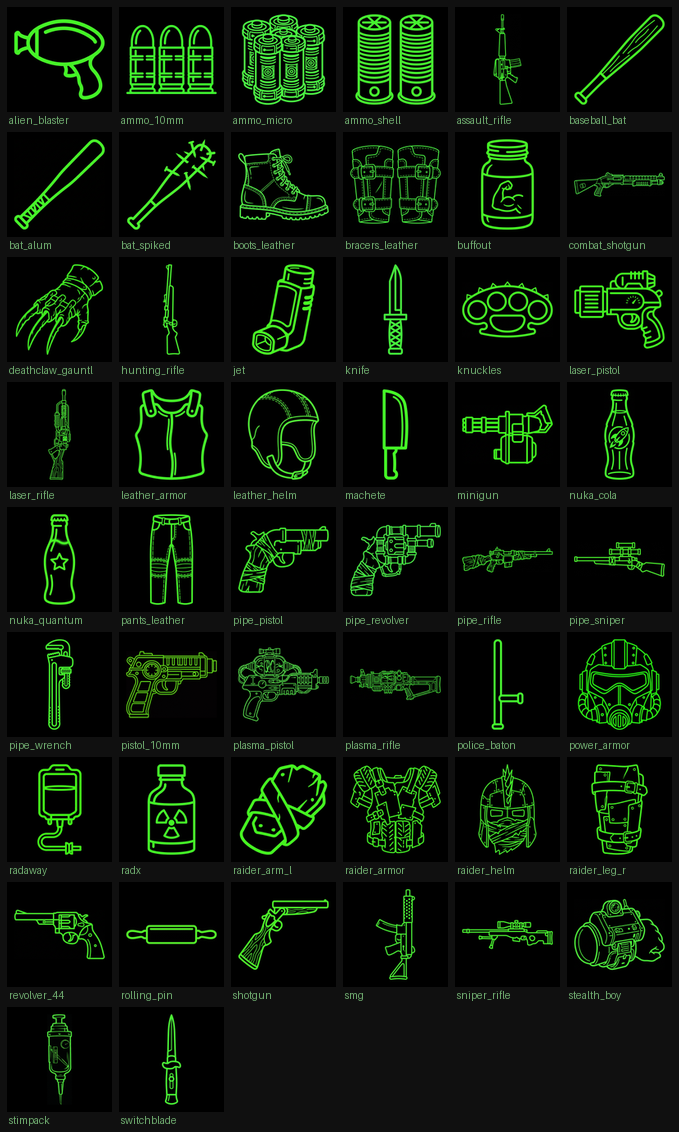
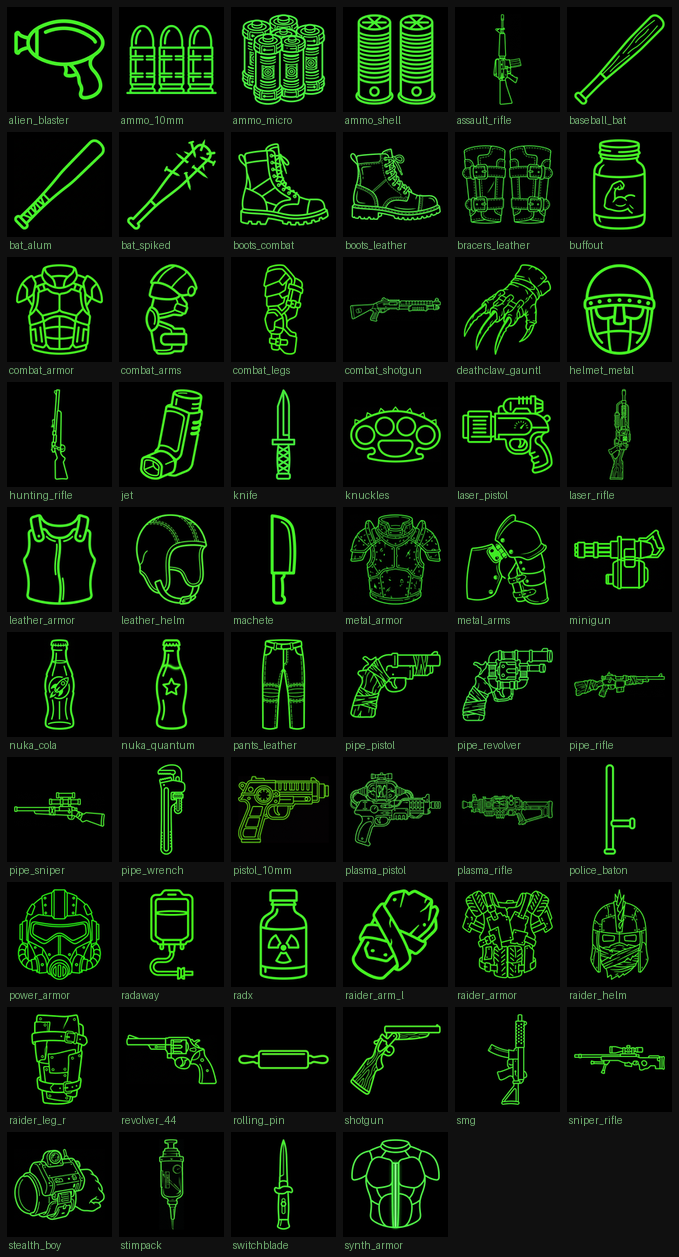
Metall- und Kampfruestung bebildert (58 von 126)
Neun Motive: metal_armor, metal_arms, combat_armor, combat_arms,
combat_legs, boots_combat, synth_armor.

Zwei Motive sind Ausschuss und wieder raus: greaves_metal (14,9 %
weisse Pixel) und helmet_combat (80,5 %) - das Pruefskript hat die
Aufbereitung abgebrochen, bevor sie ins Set kamen. Damit hat es zum
dritten Mal in Folge gegriffen; ohne den Exit-Code aus #430 waeren
beide als weisse Kacheln im Inventar gelandet.

Die Materialstufen trennen jetzt sichtbar: genietete Platten bei Metall,
segmentierte Verbundplatten bei Kampf, glatte Naht bei Synth.

58 von 126 Items, 294 kB.

135 Tests gruen.

diff --git a/PipBoy3000/app.js b/PipBoy3000/app.js
@@ -447,11 +447,16 @@
     "baseball_bat",
     "bat_alum",
     "bat_spiked",
+    "boots_combat",
     "boots_leather",
     "bracers_leather",
     "buffout",
+    "combat_armor",
+    "combat_arms",
+    "combat_legs",
     "combat_shotgun",
     "deathclaw_gauntlet",
+    "helmet_metal",
     "hunting_rifle",
     "jet",
     "knife",
@@ -461,6 +466,8 @@
     "leather_armor",
     "leather_helm",
     "machete",
+    "metal_armor",
+    "metal_arms",
     "minigun",
     "nuka_cola",
     "nuka_quantum",
@@ -488,7 +495,8 @@
     "sniper_rifle",
     "stealth_boy",
     "stimpack",
-    "switchblade"
+    "switchblade",
+    "synth_armor"
   ];
 
   // src/data/data_recipes.js

diff --git a/PipBoy3000/src/data/data_item_icons.js b/PipBoy3000/src/data/data_item_icons.js
@@ -19,11 +19,16 @@ window.GameData.itemBilder = [
   'baseball_bat',
   'bat_alum',
   'bat_spiked',
+  'boots_combat',
   'boots_leather',
   'bracers_leather',
   'buffout',
+  'combat_armor',
+  'combat_arms',
+  'combat_legs',
   'combat_shotgun',
   'deathclaw_gauntlet',
+  'helmet_metal',
   'hunting_rifle',
   'jet',
   'knife',
@@ -33,6 +38,8 @@ window.GameData.itemBilder = [
   'leather_armor',
   'leather_helm',
   'machete',
+  'metal_armor',
+  'metal_arms',
   'minigun',
   'nuka_cola',
   'nuka_quantum',
@@ -60,5 +67,6 @@ window.GameData.itemBilder = [
   'sniper_rifle',
   'stealth_boy',
   'stimpack',
-  'switchblade'
+  'switchblade',
+  'synth_armor'
 ];

diff --git a/PipBoy3000/docs/ITEMBILDER.md b/PipBoy3000/docs/ITEMBILDER.md
@@ -23,6 +23,11 @@ Waffen: `pistol_10mm` `revolver_44` `shotgun` `combat_shotgun` `smg`
 `assault_rifle` `minigun` `laser_pistol` `laser_rifle` `plasma_pistol` `plasma_rifle`
 Rüstung: `power_armor`
 
+## Ausschuss in Block 4
+
+`greaves_metal` (14,9 % weiss) und `helmet_combat` (80,5 % weiss) — beide
+vom Pruefskript abgefangen, neu zeichnen.
+
 ## Bildfehler-Prüfung
 
 `node tools/icon-check.mjs` (laeuft bei `npm run icons` zuerst) meldet Rohbilder
@@ -73,9 +78,9 @@ Nahkampf:
 |---|---|
 | Raider ✓ | `raider_armor` `raider_helm` `raider_arm_l` `raider_leg_r` |
 | Leder ✓ | `leather_armor` `leather_helm` `bracers_leather` `pants_leather` `boots_leather` |
-| Metall | `metal_armor` `helmet_metal` `metal_arms` `greaves_metal` |
-| Kampf | `combat_armor` `helmet_combat` `combat_arms` `combat_legs` `boots_combat` |
-| Synth | `synth_armor` `synth_helmet` |
+| Metall (3/4) | `metal_armor` `helmet_metal` `metal_arms` `greaves_metal` |
+| Kampf (4/5) | `combat_armor` `helmet_combat` `combat_arms` `combat_legs` `boots_combat` |
+| Synth (1/2) | `synth_armor` `synth_helmet` |
 | Sonstiges | `vault_suit` `hazmat_suit` `cap_baseball` `helmet_mining` `gas_mask` `jeans` `boots_worn` |
 
 ## Block 5 — Handwerk, Rohstoffe, Rucksäcke (42)
